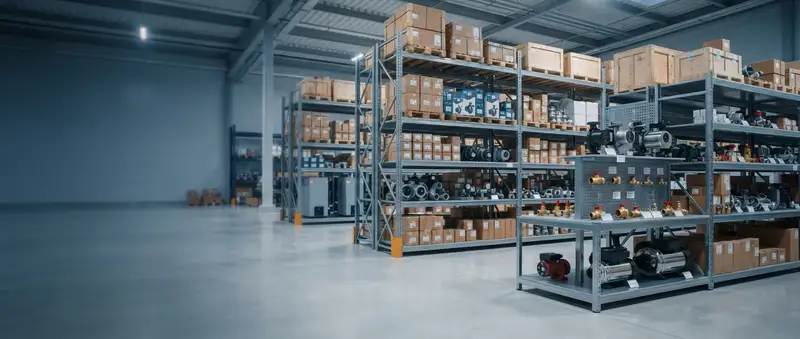
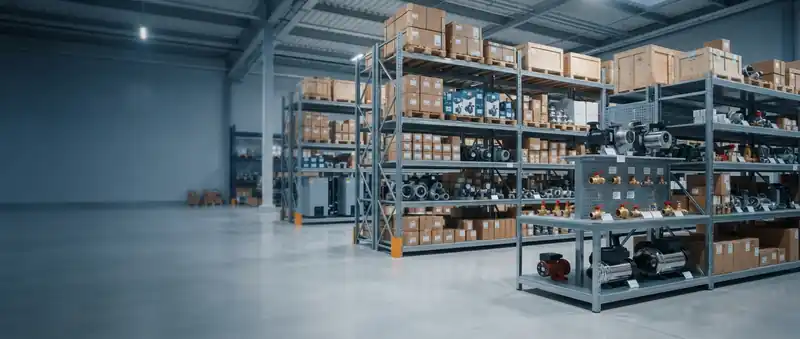
Health V3.10

Changed region(s): [[0.7812, 0.6195, 0.8125, 0.649], [0.6875, 0.59, 0.7188, 0.6195]]

diff --git a/src/components/HomeCategoryTileGrid.tsx b/src/components/HomeCategoryTileGrid.tsx
@@ -56,7 +56,7 @@ export default function HomeCategoryTileGrid({
                 src={item.imageUrl}
                 alt=""
                 fill
-                quality={60}
+                quality={45}
                 sizes={
                   isFeatured
                     ? "(min-width: 1024px) 50vw, 100vw"

diff --git a/next.config.ts b/next.config.ts
@@ -8,7 +8,7 @@ const nextConfig: NextConfig = {
     },
   },
   images: {
-    qualities: [60, 75],
+    qualities: [45, 60, 75],
     minimumCacheTTL: 2678400,
     remotePatterns: [
       {
